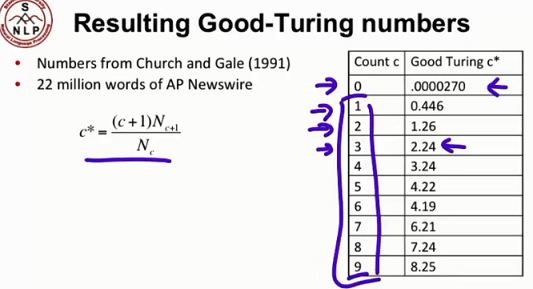
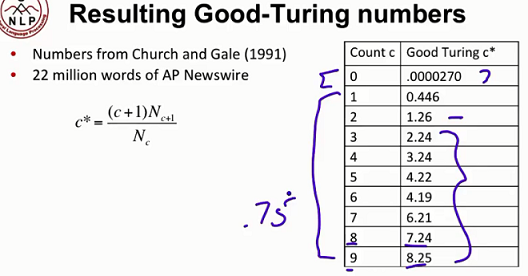
p

diff --git a/_posts/BookNote/_posts/2019-05-01-NL-From Languages to Information week2.md b/_posts/BookNote/_posts/2019-05-01-NL-From Languages to Information week2.md
@@ -251,13 +251,80 @@ Held out set $$N_{0}$$实际为training set$$N_{1}$$,其占training set的$$(1)N
 
 则一个训练集中没有出现的word占比为$$(1)N_{1}/c$$，出现了k次的占比为$$(k+1)N_{k+1}/c$$，则训练集中出现了k次的不同的word，每个word平均出现概率为$$(k+1)N_{k+1}/c/N_{k}$$。   
 
-![_config.yml]({{ site.baseurl }}/images/9From Languages to Information/image94.png)  
+![_config.yml]({{ site.baseurl }}/images/9From Languages to Information/image94.png)   
+
+上述方法有可能出现中间某些频次$N_{k}$$$不存在问题导致无法计算，为此提出Simple Good-Turing   
 
 ![_config.yml]({{ site.baseurl }}/images/9From Languages to Information/image95.png)   
 
-# 3.8 Kneser-Ney Smoothing
+# 3.8 Kneser-Ney Smoothing   
+
+在实践中通常原始的count和经过Good-Turing计算的count，它们之间的间隔$$d$$是一个固定的很小的数，如上图间隔约是0.75  
+
+## Absolute Discounting Information  
+
+使用Absolute Discounting Information 计算语言模型，式子$$d$$表示间隔
+
+![_config.yml]({{ site.baseurl }}/images/9From Languages to Information/image96.png)
+
+## Kneser-Ney Smoothing   
+
+![_config.yml]({{ site.baseurl }}/images/9From Languages to Information/image97.png)
+
+上图 Shannon game 估计句子下一个单词时，往往先使用bigrams(有部分词的组合没有在训练集中出现$$P(w_{i}\mid w_{i-1})$$=0),无法计算时使用unigram代替$$P(w_{i})=P(w_{i}\mid w_{i-1})$$,这样估计不准确，如下图例子"Francisco"出现概率往往比"glasses"高，但其通常搭配"San",当前面没有"San"时，"glasses"出现概率应该更高，为此提出了$$P_{continuation}(w)$$   
+
+首先计算文本$$(w_{i-1},w_{i})$$类别组合数(有多少中组合)作为分母,其中$$w_{i}=w$$的组合的个数，即：$$\mid\{w_{i-1}:c(w_{i-1},w)\}\mid$$ 作为分子
+
+![_config.yml]({{ site.baseurl }}/images/9From Languages to Information/image98.png)
+
+也可以计算$$(w_{i-1},w)$$类别组合中，$$w_{i-1}$$有哪些取值，每个取值有多少种类别组合$$(w_{i-1},w_{i})$$,将每个取值类别组合数求和作为分母   
+
+![_config.yml]({{ site.baseurl }}/images/9From Languages to Information/image99.png)  
+
+bigram formulation for Kneser-Ney：     
+
+![_config.yml]({{ site.baseurl }}/images/9From Languages to Information/image100.png)   
+
+the general recursive formulation for n grams：  
+
+![_config.yml]({{ site.baseurl }}/images/9From Languages to Information/image101.png)   
+
+---------------------------------------------------------------------------------------- 
+
+# 4.1 The Spelling Correction Task  错误拼写更正
+
+## Spelling Tasks  
+
+$$\bullet$$ 拼写错误检测(检测出错误的拼写)
+$$\bullet$$ 拼写错误更正: 
+自动更正($$hte \to the$$)
+提供一个更正建议
+提供多个更正(Suggestions lists) 
+
+## Types of spelling errors  
+
+$$\bullet$$ Non-word Errors(错误单词不存在)
+
+$$graffe \to giraffe$$  
+
+$$\bullet$$ Real-word Errors(错误单词存在)  
+
+Typographical Errors排字错误:$$three \to there$$  
+
+Cognitive Errors认知错误(homophones同音字):$$piece \to peace , too \to two $$ 
+
+## Rate of spelling errors 
 
 
+![_config.yml]({{ site.baseurl }}/images/9From Languages to Information/image102.png)   
+
+## Non-word spelling Errors
+
+![_config.yml]({{ site.baseurl }}/images/9From Languages to Information/image103.png)   
+
+## Real word spelling Errors  
+
+![_config.yml]({{ site.baseurl }}/images/9From Languages to Information/image104.png)   
 
 
 
